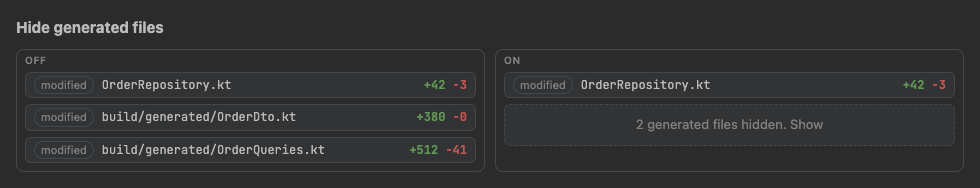
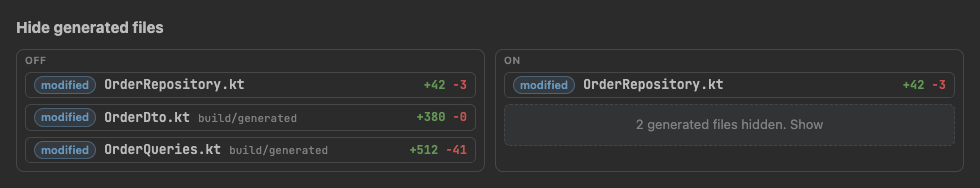
README: what's new since 0.2.0, pictures recaptured

diff --git a/README.md b/README.md
@@ -37,14 +37,14 @@ If the org enforces SSO, authorize the gh token for it when GitHub asks. On firs
   <img alt="The PR list: Reviewing, Your PRs and Team tabs, PRs grouped by where they stand, with pills for what needs you" src="docs/features/scene-queue-light.png" width="380">
 </picture>
 
-**Reading.** Every changed file on one page, markdown first and tests right after their source. The Jira ticket and PR status on top, a jump index of comments, checks (with failed-job logs), threads and files, and navigation for stacked PRs. A PR you've opened before shows at once from its last copy while it refreshes. Re-reviews open with a summary of what happened since your last review (new commits, replies to your threads, code changed under them, threads resolved), and each of your open threads says whether the lines you commented on changed, with the change. It reopens where you left off, marks files changed since your last visit, and points out code changed without a matching test change. Syntax highlighting in your pick of code themes (IntelliJ, GitHub, VS Code, One, Dracula, Solarized, Gruvbox, Catppuccin, Tokyo Night, Nord) and free fonts (JetBrains Mono, Fira Code, Cascadia Code, Geist Mono, Iosevka and more), with code ligatures (`->` as →, `>=` as ≥) in the fonts that have them.
+**Reading.** Every changed file on one page, markdown first and tests right after their source. The Jira ticket and PR status on top, a jump index of comments, checks (with failed-job logs), threads and files, and navigation for stacked PRs. A PR you've opened before shows at once from its last copy while it refreshes. Re-reviews open with a summary of what happened since your last review (new commits, replies to your threads, code changed under them, threads resolved), and each of your open threads says whether the lines you commented on changed, with the change. It reopens where you left off, marks files changed since your last visit, and points out code changed without a matching test change. File headers lead with the file's name (its folder small beside it), and in Gradle projects the index groups files by module, tags each file with its module (`:core:network`) and says how many modules the PR touches, each with the modules whose code changed but no test did. In Kotlin and Java, a hunk's header names the function it's in (git's names the class for everything inside one), pinned while you scroll through it. The status pills (checks failing, files without test changes, modules) open the list behind them. A strip down the right edge is the page's scrollbar, with marks for open threads, your drafts and changed parts of documents. One line-number column (the old one is a switch); ⌥-click a line number to copy a link to it. Images show: in descriptions and comments (from private repos too), in markdown files, and SVG files. ↻ reloads the PR you're on as well as the list. Syntax highlighting in your pick of code themes (IntelliJ, GitHub, VS Code, One, Dracula, Solarized, Gruvbox, Catppuccin, Tokyo Night, Nord) and free fonts (JetBrains Mono, Fira Code, Cascadia Code, Geist Mono, Iosevka and more), with code ligatures (`->` as →, `>=` as ≥) in the fonts that have them.
 
 <picture>
   <source media="(prefers-color-scheme: dark)" srcset="docs/features/scene-review-dark.png">
   <img alt="A PR: the bar with ✳ Claude and Finish review, the Jira ticket, status pills, changes since your last review, and a diff" src="docs/features/scene-review-light.png" width="760">
 </picture>
 
-**Commenting.** Line, range and file comments everywhere, rendered markdown included. An editor with preview, `:emoji:` and `@mention` completion, saved replies (`/` at the start of a line), and suggested changes. Drafts survive reloads and go out as one review, with the verdict pre-picked from your comments; then lgtm opens the next PR that needs you. Optional Slack DM to the author, one thread per PR.
+**Commenting.** Line, range and file comments everywhere, rendered markdown included. An editor with preview, `:emoji:` and `@mention` completion, saved replies (`/` at the start of a line), and suggested changes. Drafts survive reloads and go out as one review, with the verdict pre-picked from your comments; then lgtm opens the next PR that needs you. Optional Slack DM to the author, one thread per PR (a DM you already had about it counts). Every message lgtm sends on Slack is yours to word in Settings → Slack messages, with fill-ins (`{pr}`, `{title}`, …), tags (`{@recipient}`, `{@author}`, `{@any-login}` become Slack mentions) and Slack emoji, your workspace's own too, suggested as you type and shown in a preview.
 
 <picture>
   <source media="(prefers-color-scheme: dark)" srcset="docs/features/scene-comment-dark.png">
@@ -60,14 +60,14 @@ And the other way: Settings → Claude Code → Install adds an `lgtm-review` sk
   <img alt="✳ Claude with a linked session (the green dot)" src="docs/features/scene-claude-light.png" width="760">
 </picture>
 
-**Your PRs.** A merge box with what's blocking and the controls: ready for review, update branch, merge, auto-merge. A PR waiting for review shows for how long, and after a day `🔔 nudge` reminds the requested reviewers on Slack (it asks before sending).
+**Your PRs.** The index lists who's reviewing and their verdict. With nobody asked yet, it suggests reviewers, least busy first (the repo's recent reviewers, else your team), and a click asks them on GitHub and, optionally, on Slack; anyone you haven't messaged gets a Slack button, and anyone who's reviewed gets "ask again" for after your fixes. Failed GitHub Actions jobs rerun from the index's checks. A merge box with what's blocking and the controls: ready for review, update branch, merge, auto-merge; once merged, it offers to move the Jira ticket on (to "Ready for QA", or your pick). A PR waiting for review shows for how long, and after a day `🔔 nudge` reminds the requested reviewers on Slack (it asks before sending).
 
 <picture>
   <source media="(prefers-color-scheme: dark)" srcset="docs/features/scene-merge-dark.png">
   <img alt="The merge box: what is blocking, update branch, merge method, merge and auto-merge" src="docs/features/scene-merge-light.png" width="760">
 </picture>
 
-**On your Mac.** A Dock badge with the "needs your review" count, notifications, `lgtm://<owner>/<repo>/pull/<n>` links, links opening in your browser, ⌘F across every file, Back and Forward (⌘[ ⌘]), glass bars and pop-ups in the spirit of Liquid Glass (a switch in Settings), a remembered window, and "Launch at login" in Settings. Copy a PR link anywhere (Slack, say) and switch to lgtm: it offers to open it. When a new version is out, the top bar says so, and Settings → Update now upgrades through Homebrew and restarts. After an update, lgtm shows what's new once. Help → Copy Diagnostics puts what a bug report needs on the clipboard (no tokens or PR text).
+**On your Mac.** More than one GitHub account in gh: switch from your avatar at the top right (each account's drafts and the like kept apart). Text and code sizes in Settings, or ⌘+ ⌘− ⌘0. A Dock badge with the "needs your review" count, notifications, `lgtm://<owner>/<repo>/pull/<n>` links, links opening in your browser, ⌘F across every file, Back and Forward (⌘[ ⌘]), glass bars and pop-ups in the spirit of Liquid Glass (a switch in Settings), a remembered window, and "Launch at login" in Settings. Copy a PR link anywhere (Slack, say) and switch to lgtm: it offers to open it. When a new version is out, the top bar says so, and Settings → Update now upgrades through Homebrew and restarts. After an update, lgtm shows what's new once. Help → Copy Diagnostics puts what a bug report needs on the clipboard (no tokens or PR text).
 
 ## Less to read
 
@@ -137,7 +137,7 @@ On by default, each with a switch (and these examples) in ⚙ Settings.
 </picture>
 </details>
 
-<details open><summary><b>Rendered markdown</b>: markdown shows rendered, still commentable line by line. Pick its look in ⚙ Settings → Markdown files: lgtm's own, or one of the 20 themes from <a href="https://markdown.style/themes">markdown.style</a> (fonts bundled), and change any of its fonts, sizes, spacing or colours.</summary>
+<details open><summary><b>Rendered markdown</b>: markdown shows rendered, still commentable line by line. Pick its look in ⚙ Settings → Markdown files: lgtm's own, or one of the 20 themes from <a href="https://markdown.style/themes">markdown.style</a> (fonts bundled), and change any of its fonts, sizes, spacing or colours; one for dark mode too (each light theme has a night version). Pull request descriptions read the same way.</summary>
 
 <picture>
   <source media="(prefers-color-scheme: dark)" srcset="docs/features/richMarkdown-dark.png">
@@ -153,7 +153,7 @@ On by default, each with a switch (and these examples) in ⚙ Settings.
 </picture>
 </details>
 
-<details open><summary><b>Image previews</b>: PNG, WebP, JPEG, GIF (Git LFS too) and Android vector drawables show as pictures.</summary>
+<details open><summary><b>Image previews</b>: PNG, WebP, JPEG, GIF (Git LFS too), SVG and Android vector drawables show as pictures.</summary>
 
 <picture>
   <source media="(prefers-color-scheme: dark)" srcset="docs/features/previewImages-dark.png">
@@ -186,11 +186,13 @@ The defaults; change the single-key ones in ⚙ Settings → Keyboard shortcuts.
 | `⌘↵` | Finish review |
 | `⌘K` | Go to a PR, file, thread or check, or open a pasted PR link (the box at the top) |
 | `⌘F` | Find, in every file |
+| `⌘+` / `⌘−` / `⌘0` | Bigger / smaller / default text |
+| `⌥`-click a line number | Copy a link to the line |
 | `?` | All shortcuts |
 
 ## Slack people
 
-lgtm messages people as you through slackcli, so it needs each GitHub account's Slack user. In ⚙ Settings → Slack people, "Find Slack accounts" looks them up (company email, then name, accepting only a single match) and you confirm each one. Mappings are saved in `~/.config/lgtm/config.json` (`{ "slackUsers": { "github-login": "U012ABC" } }`). Mark automation accounts as bots there so they're never messaged.
+lgtm messages people as you through slackcli, so it needs each GitHub account's Slack user. In ⚙ Settings → Slack people, "Find Slack accounts" looks them up (company email, then name, accepting only a single match) and you confirm each one; with several matches you pick, or search by name, @handle, email or a Slack link (their profile, or your DM with them). The list has your team and everyone on PRs you've opened, and a "no Slack user known" message takes you to the person. Mappings are saved in `~/.config/lgtm/config.json` (`{ "slackUsers": { "github-login": "U012ABC" } }`). Mark automation accounts as bots there so they're never messaged.
 
 ## Develop
 
@@ -218,7 +220,7 @@ cd desktop && npm install && npm run build         # → src-tauri/target/releas
 **Releasing.** On a Mac with Rust and both targets (`rustup target add aarch64-apple-darwin x86_64-apple-darwin`):
 
 ```bash
-scripts/release.sh 0.2.0
+scripts/release.sh 0.3.0
 ```
 
 It sets the version everywhere (Settings shows it), runs the tests, builds a universal, ad-hoc-signed `lgtm.app` and the browser version's tarball, and points [`Casks/lgtm.rb`](Casks/lgtm.rb) and [`Formula/lgtm-cli.rb`](Formula/lgtm-cli.rb) at them (version, SHA-256). Then it prints the two publishing commands: push the commit, and `gh release create` with both files. This repo is its own Homebrew tap, so `brew upgrade` picks the release up once both are out.
